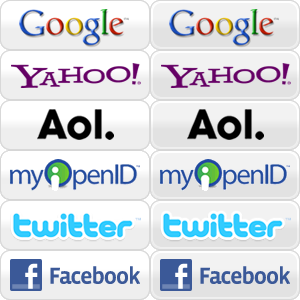
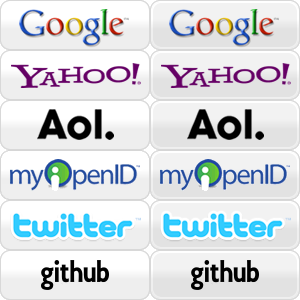
Added GitHub button

Changed region(s): [[0.03, 0.84, 0.48, 0.99], [0.51, 0.84, 0.96, 0.99]]

diff --git a/templates/others/login.html b/templates/others/login.html
@@ -13,13 +13,13 @@
           <div id="providers">
             <ul id="col1">
               <a href="{{ google }}"><li class="provider" id="google"></li></a>
+              <a href="{{ openid }}"><li class="provider" id="openid"></li></a>
               <a href="{{ yahoo }}"><li class="provider" id="yahoo"></li></a>
-              <a href="/oauth/signin_twitter"><li class="provider" id="twitter"></li><a>
             </ul>
             <ul id="col2">
-              <a href="{{ openid }}"><li class="provider" id="openid"></li></a>
+              <a href="/oauth/signin_twitter"><li class="provider" id="twitter"></li><a>
+<!--              <a href="{{ github }}"><li class="provider" id="github"></li></a>-->
               <a href="{{ aol }}"><li class="provider" id="aol"></li></a>
-<!--              <a href="{{ facebook }}"><li class="provider" id="facebook"></li></a>-->
             </ul>
           </div>
           <div class="visualclear"></div>

diff --git a/static/css/style.css b/static/css/style.css
@@ -376,8 +376,8 @@ form textarea {
 #openid:hover { background-position: -150px -150px; }
 #twitter { background-position: 0 -200px; }
 #twitter:hover { background-position: -150px -200px; }
-#facebook { background-position: 0 -250px; }
-#facebook:hover { background-position: -150px -250px; }
+#github { background-position: 0 -250px; }
+#github:hover { background-position: -150px -250px; }
 #col1 { float: left; }
 #col2 { float: right; }
 
